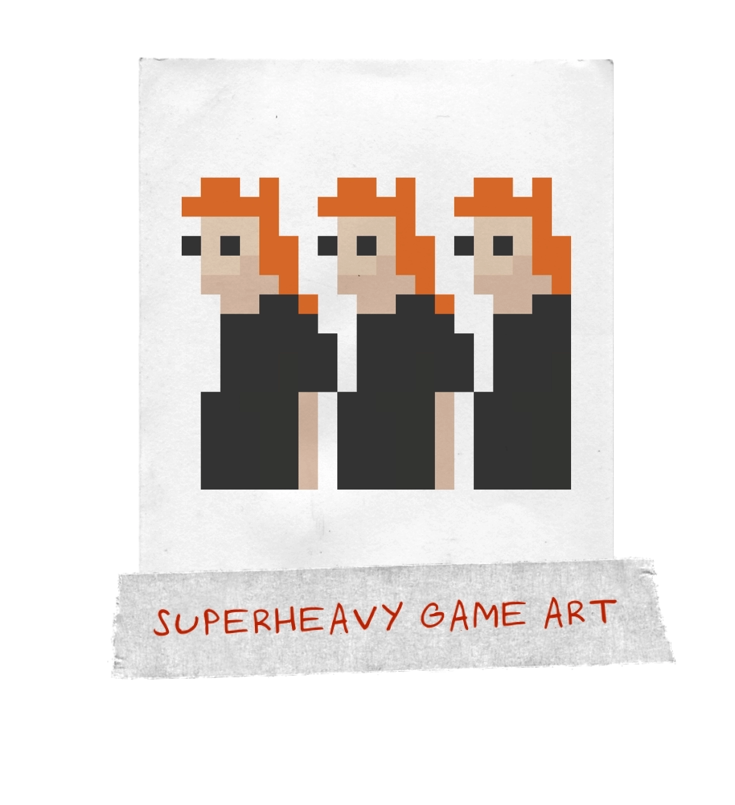
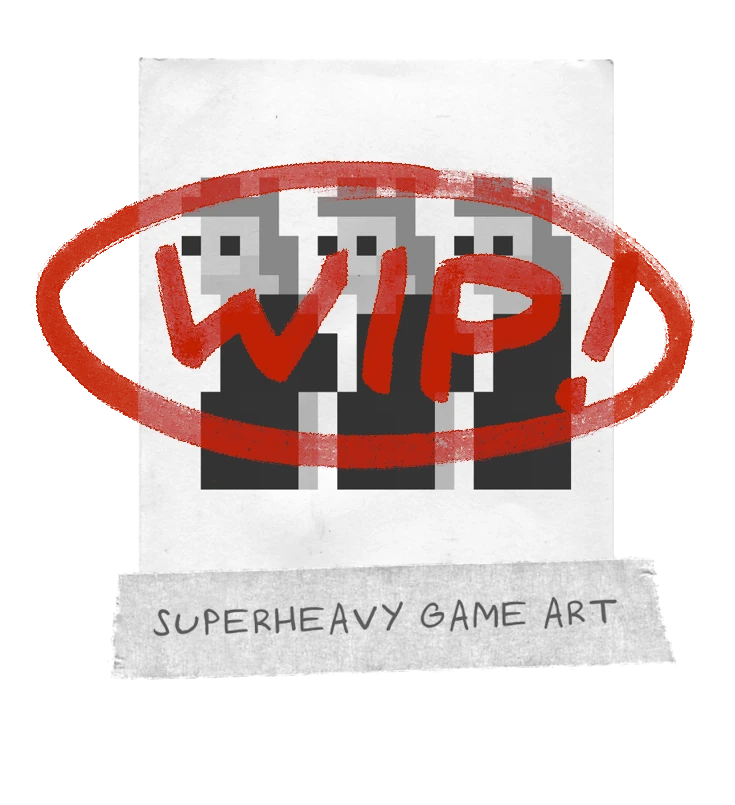
feat - Added wip

Changed region(s): [[0.0299, 0.1863, 0.9578, 0.6211], [0.2095, 0.7453, 0.8381, 0.8075]]

diff --git a/index.html b/index.html
@@ -45,13 +45,13 @@
 
         <div id="blur" class="stationary full-screen openable"></div>
 
+        <default-project-popup id="superheavy-concept-art-popup" class="stationary full-screen openable popup"
+            textImagePath="https://cdn.jsdelivr.net/gh/Ben-G-Man/sam-hume-portfolio@main/public/images/misc-works/super heavy concept art/text.webp" slideDeckPrefixPath=""
+            slideCount="0"></default-project-popup>
         <default-project-popup id="milk-run-popup" class="stationary full-screen openable popup"
-            textImagePath="https://cdn.jsdelivr.net/gh/Ben-G-Man/sam-hume-portfolio@main/public/images/misc-works/cardthulu/text.webp" slideDeckPrefixPath=""
+            textImagePath="https://cdn.jsdelivr.net/gh/Ben-G-Man/sam-hume-portfolio@main/public/images/misc-works/milk run/text.webp" slideDeckPrefixPath=""
             slideCount="0"></default-project-popup>
         <default-project-popup id="sketchbook-popup" class="stationary full-screen openable popup"
-            textImagePath="https://cdn.jsdelivr.net/gh/Ben-G-Man/sam-hume-portfolio@main/public/images/misc-works/cardthulu/text.webp" slideDeckPrefixPath=""
-            slideCount="0"></default-project-popup>
-        <default-project-popup id="superheavy-game-art-popup" class="stationary full-screen openable popup"
             textImagePath="https://cdn.jsdelivr.net/gh/Ben-G-Man/sam-hume-portfolio@main/public/images/misc-works/cardthulu/text.webp" slideDeckPrefixPath=""
             slideCount="0"></default-project-popup>
         <default-project-popup id="cardthulu-game-art-popup" class="stationary full-screen openable popup"
@@ -100,10 +100,12 @@
                     <img onclick="OpenPopup('sketchbook-popup')"
                         src="https://cdn.jsdelivr.net/gh/Ben-G-Man/sam-hume-portfolio@main/public/images/misc-works/sketchbook-colour.webp"
                         alt="" loading="lazy" />
-                    <img onclick="OpenPopup('portfolio-popup')"
+                    <img
+                        class="wip"
                         src="https://cdn.jsdelivr.net/gh/Ben-G-Man/sam-hume-portfolio@main/public/images/misc-works/portfolio-colour.webp"
                         alt="" loading="lazy" />
-                    <img onclick="OpenPopup('superheavy-game-art-popup')"
+                    <img
+                        class="wip"
                         src="https://cdn.jsdelivr.net/gh/Ben-G-Man/sam-hume-portfolio@main/public/images/misc-works/pixel-art-colour.webp"
                         alt="" loading="lazy" />
                     <img onclick="OpenPopup('cardthulu-game-art-popup')"

diff --git a/src/css/layout.css b/src/css/layout.css
@@ -159,14 +159,17 @@ section {
     width: 100%;
     height: 100%;
     object-fit: cover;
+    display: block;
+}
+
+.image-grid img:not(.wip) {
     pointer-events: all;
     cursor: pointer;
-    display: block;
     filter: grayscale(100%);
     transition: 0.3s;
 }
 
-.image-grid img:hover {
+.image-grid img:not(.wip):hover {
     filter: grayscale(0%);
     transition: 0.3s;
 }
